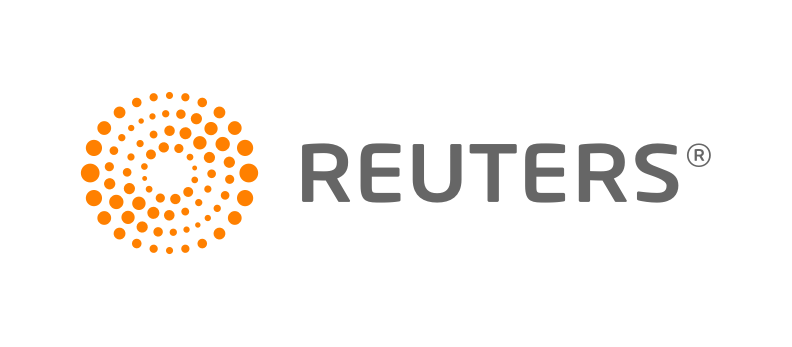
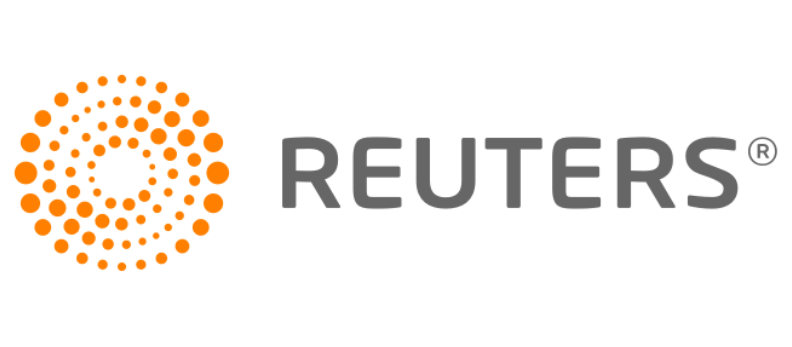
refactor: update layout and branding components for improved consistency
- Changed default formatter in VSCode settings to Prettier for better code formatting.
- Refactored layout component for cleaner structure and improved readability.
- Enhanced Brands component with responsive design and animation effects.
- Updated page component to streamline the layout and improve user experience.
- Modified several image assets for better visual quality and consistency.

Changed region(s): [[0.0, 0.2017, 1.0, 0.7781]]

diff --git a/app/page.tsx b/app/page.tsx
@@ -1,90 +1,41 @@
 "use client";
 
-import { StudioAbout } from "@/components/landing/about-us";
 import Brands from "@/components/landing/brands";
-import { StudioProcess } from "@/components/landing/process";
-import { Services } from "@/components/landing/services";
-import { Stages } from "@/components/landing/stages";
 import { fadeInUp } from "@/utils/animations";
 import { motion } from "framer-motion";
 
 export default function Home() {
-	const scrollToSection = (
-		e: React.MouseEvent<HTMLButtonElement>,
-		id: string,
-	) => {
-		e.preventDefault();
-		const element = document.getElementById(id);
-		if (element) {
-			element.scrollIntoView({
-				behavior: "smooth",
-			});
-		}
-	};
-
 	return (
-		<div className="container px-4 my-24 mx-auto flex flex-col gap-4 min-h-screen text-bone-100">
+		<div className="container mt-24 mx-auto flex flex-col gap-2 md:gap-4 text-bone-100">
 			{/* Hero Section */}
 			<motion.section
-				className="mx-auto container py-24 flex flex-col justify-left relative"
+				className="mx-auto container py-24 flex gap-4 flex-col justify-left relative items-center"
 				{...fadeInUp}
 				initial={{ opacity: 0, y: 20 }}
 				animate={{ opacity: 1, y: 0 }}
 				transition={{ duration: 0.8 }}
 			>
-				<h1 className="pb-4 tracking-tighter md:text-center font-serif">
-					<motion.span
-						className="text-5xl lg:text-7xl tracking-tighter block bg-gradient-to-r from-sage-200 via-olive-200 to-bone-300 text-transparent bg-clip-text font-serif"
-						initial={{ opacity: 0, x: -20 }}
-						animate={{ opacity: 1, x: 0 }}
-						transition={{ delay: 0.5, duration: 0.8 }}
-					>
-						Build Products That Matter.
-					</motion.span>
-				</h1>
-				<p className="text-lg lg:text-xl text-sage-300 tracking-wide font-light mb-12 ml-1 relative md:text-center font-sans">
-					We craft digital experiences that drive real business results.
-				</p>
-				<div className="flex flex-col gap-3 items-start md:mx-auto md:items-center">
-					<button
-						type="button"
-						className="relative border-sage-400 border-1 group inline-block px-8 py-4 rounded-xl text-xl transition-all hover:scale-105 font-medium overflow-hidden font-sans"
-						onClick={(e) => scrollToSection(e, "contact")}
-					>
-						<span className="absolute inset-0 opacity-50 bg-gradient-to-r from-olive-200/10 via-bone-200/15 to-sage-200/10 rounded-xl group-hover:opacity-70 transition-all duration-300" />
-						<span className="relative text-bone-100 z-10">
-							Start Your Project
-						</span>
-					</button>
-				</div>
+				<motion.h1
+					className="text-4xl lg:text-7xl tracking-tighter block bg-gradient-to-r from-sage-200 via-olive-200 to-bone-300 text-transparent bg-clip-text font-serif"
+					initial={{ opacity: 0, x: -20 }}
+					animate={{ opacity: 1, x: 0 }}
+					transition={{ delay: 0.5, duration: 0.8 }}
+				>
+					Build Products That Matter.
+				</motion.h1>
+
+				{/* <a
+          href="mailto:hello@ponti.io"
+          className="relative border-sage-400 border-1 group inline-block px-8 py-4 rounded-xl transition-all hover:scale-105 overflow-hidden"
+        >
+          <span className="absolute inset-0 opacity-50 bg-gradient-to-r from-olive-200/10 via-bone-200/15 to-sage-200/10 rounded-xl group-hover:opacity-70 transition-all duration-300" />
+          <span className="relative text-bone-100 z-10 font-medium font-sans">
+            Start Your Project
+          </span>
+        </a> */}
 			</motion.section>
 
 			<Brands />
-
-			<Services />
-
-			<Stages />
-
-			<StudioProcess />
-
-			<StudioAbout />
-
-			<motion.section
-				id="contact"
-				className="mx-auto px-4 py-4 text-center"
-				{...fadeInUp}
-			>
-				<div className="flex flex-col items-center gap-4">
-					<a
-						href="mailto:hello@ponti.io"
-						className="text-base inline-block relative group px-8 py-4 rounded-xl md:text-xl hover:scale-105 transition-all font-medium font-sans"
-					>
-						<span className="absolute inset-0 opacity-50 bg-gradient-to-r from-olive-200/10 via-bone-200/15 to-sage-200/10 rounded-xl group-hover:opacity-70 transition-all duration-300" />
-						<span className="relative z-10 text-bone-100">Get Started</span>
-					</a>
-					<p className="text-sage-400 font-light">Response within 24 hours</p>
-				</div>
-			</motion.section>
 		</div>
 	);
 }

diff --git a/components/landing/brands.tsx b/components/landing/brands.tsx
@@ -47,21 +47,25 @@ const brands = [
 		logo: "/images/companies/glow.png",
 		alt: "Glow",
 	},
+	{
+		name: "You",
+		alt: "You",
+	},
 ];
 
 export default function Brands() {
 	return (
 		<motion.section
-			className="w-full py-12 lg:py-16"
+			className="mx-auto"
 			initial={{ opacity: 0, y: 20 }}
 			animate={{ opacity: 1, y: 0 }}
 			transition={{ duration: 0.8, delay: 0.3 }}
 		>
-			<div className="max-w-7xl mx-auto px-4 sm:px-6 lg:px-8 text-center">
-				<p className="text-sage-400 text-sm md:text-base mb-8 font-light tracking-wide">
-					Trusted by distinguished organizations worldwide
+			<div className="max-w-5xl text-center">
+				<p className="text-sage-400 text-xs md:text-base mb-8 font-light tracking-wide">
+					Trusted by distinguished organizations
 				</p>
-				<div className="grid grid-cols-3 md:grid-cols-4 lg:grid-cols-5 gap-8 items-center justify-items-center opacity-60 hover:opacity-80 transition-opacity duration-300">
+				<div className="grid grid-cols-2 md:grid-cols-3 lg:grid-cols-4 xl:grid-cols-5 gap-8 md:gap-16 items-center justify-center opacity-60 hover:opacity-80 transition-opacity duration-300">
 					{brands.map((brand, index) => (
 						<motion.div
 							key={brand.name}
@@ -70,13 +74,19 @@ export default function Brands() {
 							transition={{ duration: 0.5, delay: index * 0.1 }}
 							className="flex items-center justify-center grayscale hover:grayscale-0 transition-all duration-300 hover:scale-110"
 						>
-							<Image
-								src={brand.logo}
-								alt={brand.alt}
-								width={120}
-								height={60}
-								className="max-h-12 w-auto object-contain filter brightness-0 invert opacity-50 hover:opacity-70 transition-opacity duration-300"
-							/>
+							{brand.logo ? (
+								<Image
+									src={brand.logo}
+									alt={brand.alt}
+									width={80}
+									height={32}
+									className="max-h-8 w-auto object-contain filter brightness-0 invert opacity-50 hover:opacity-70 transition-opacity duration-300"
+								/>
+							) : (
+								<div className="max-h-8 w-auto object-contain filter brightness-0 invert opacity-50 hover:opacity-70 transition-opacity duration-300">
+									{brand.name}
+								</div>
+							)}
 						</motion.div>
 					))}
 				</div>

diff --git a/app/layout.tsx b/app/layout.tsx
@@ -84,7 +84,7 @@ export default function RootLayout({
 			<body
 				className={cn(
 					inter.className,
-					"antialiased bg-charcoal-900 text-bone-100 min-w-full font-sans",
+					"antialiased bg-black text-bone-100 min-w-full font-sans",
 				)}
 			>
 				<NavigationProgress />
